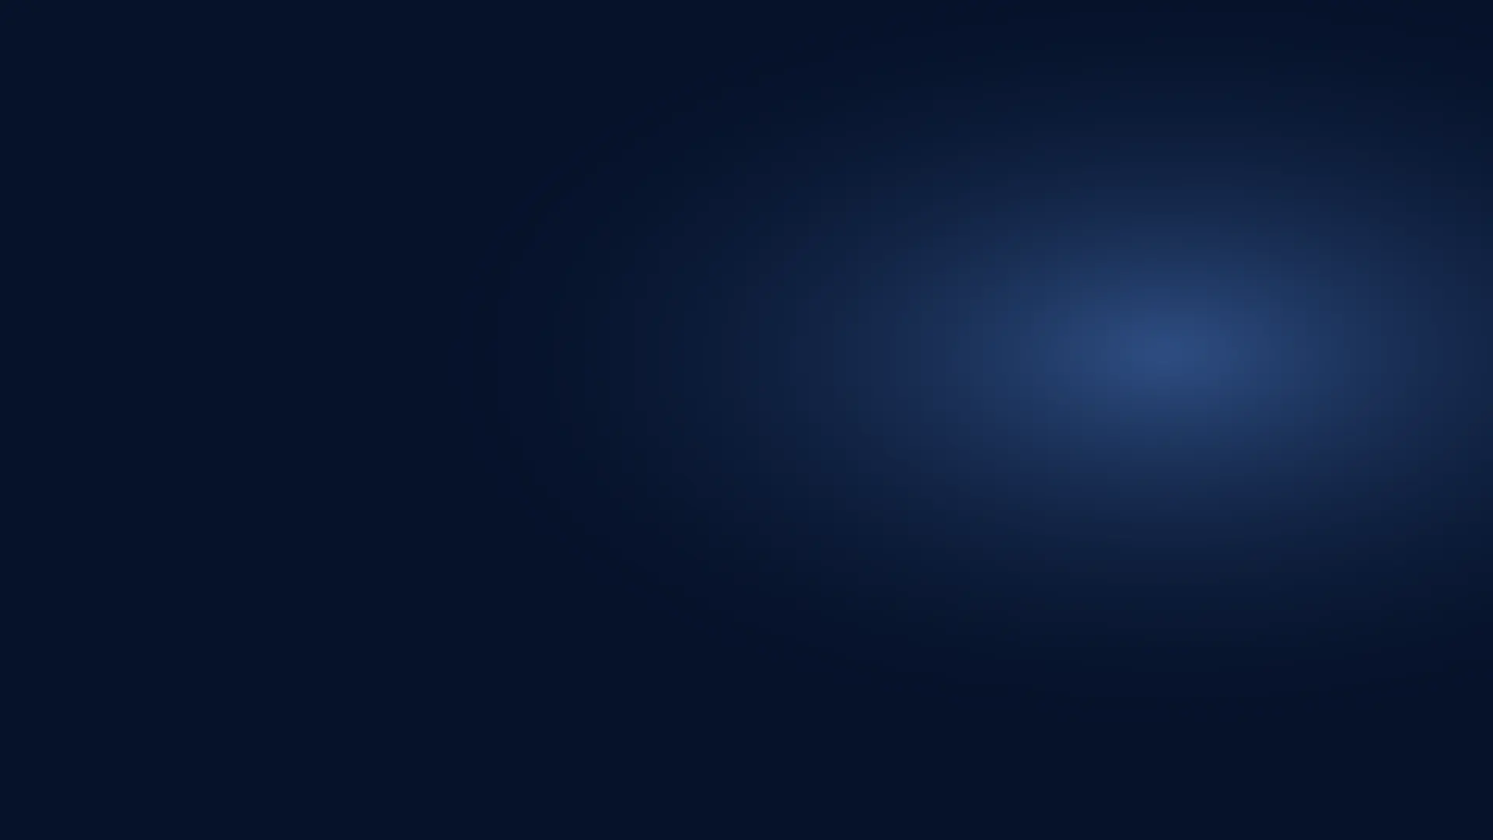
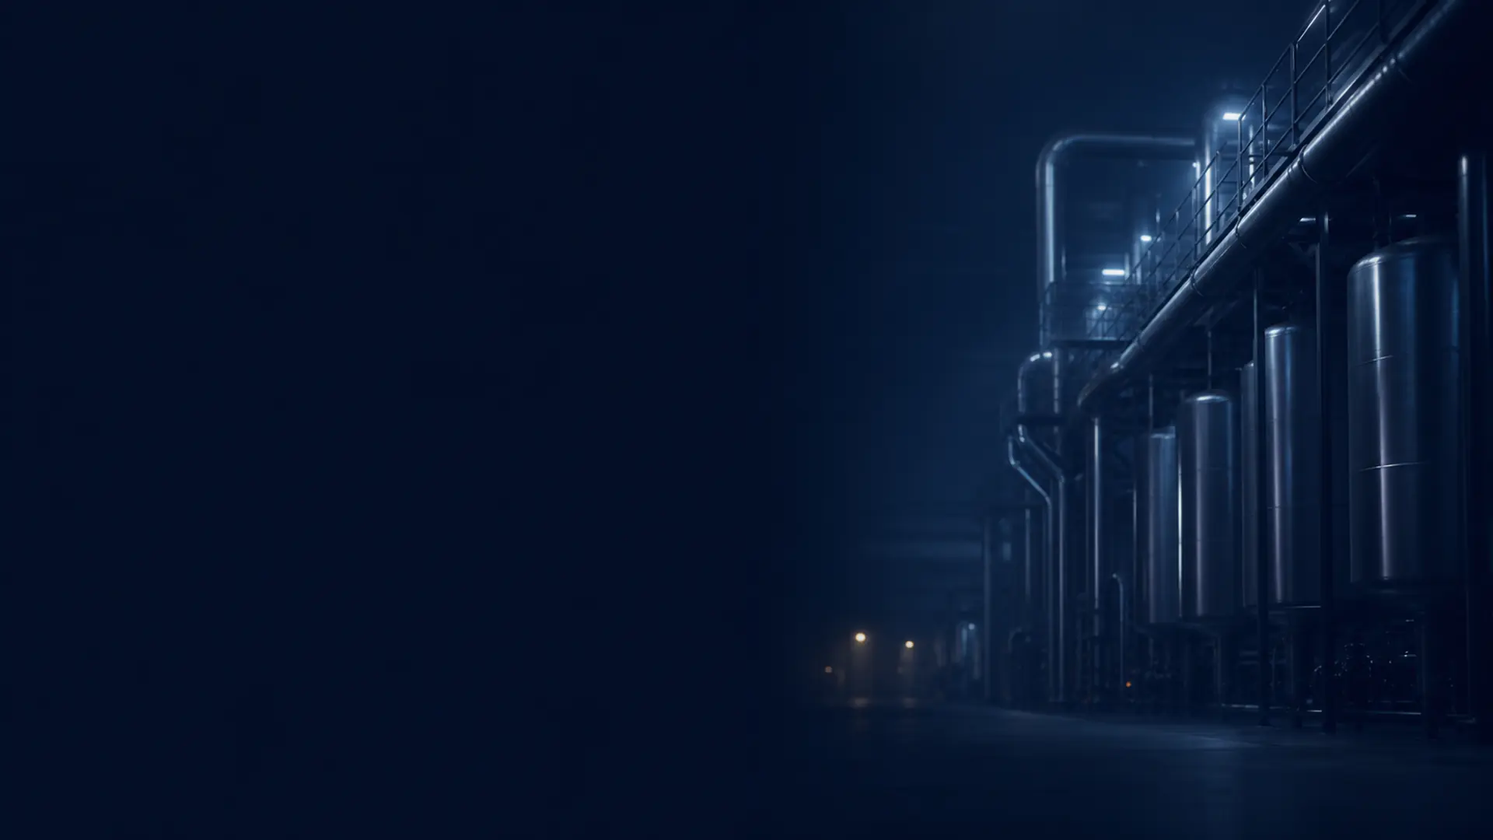
Hero: the real wide photograph, verified against the brief's own targets
Codex delivered plant-wide.png (3840x2160, 2 attempts). Measured independently
rather than trusting the report:

  text-zone (left 55%) max luminance   1.07%   limit 18%   PASS
  text-zone mean luminance             0.49%   limit 10%   PASS
  white-on-photo contrast             17.31:1  min 7:1     PASS
  pixels above 15% luma in text zone   0.0000%
  mid-tones inside the blue band       99.7%   (no green/teal/purple/warm cast)

Ladder, all far inside their ceilings because a dark defocused hall is the
cheapest content WebP handles:
  plant-wide-1280.webp  12.2 KB  (ceiling  75)
  plant-wide-1920.webp  21.0 KB  (ceiling 150)
  plant-wide-2560.webp  31.5 KB  (ceiling 240)

Worst-case above-the-fold is now 31.5 + 55.6 = 87 KB against 123 KB on the live
site, so the photographic hero is LIGHTER than the flat one it replaces.

The 2.4 MB PNG master is archived to ~/hero-masters/ and deleted from the site
tree so it cannot ship.

STILL ON THE PLACEHOLDER: plant-tall-*.webp. Codex has not generated the tall
master yet. I tested whether a crop of the wide could stand in and it cannot —
scanning every 2:3 window across the frame, each one that passes the contrast
target contains 0.0-0.3% lit content (an empty dark rectangle), and every window
with real machinery collapses to 1.02:1 because the gantry lights sit exactly
where a phone headline goes. That is the two-master decision earning its keep,
so phones keep the gradient plate until the real tall master lands.
[…]

diff --git a/contact.html b/contact.html
@@ -21,9 +21,9 @@
   <script type="application/ld+json">{"@context":"https://schema.org","@graph":[{"@type":"Organization","@id":"https://artmechatronics.com/#organization","name":"ART Mechatronics","url":"https://artmechatronics.com/","logo":"https://artmechatronics.com/assets/logo.svg","image":"https://artmechatronics.com/assets/video/hero-poster.jpg","description":"Manufacturer of industrial processing, packaging, material-handling and dust-collection machinery, from single machines to complete PLC-controlled turnkey lines.","email":"info@artmechatronics.com","address":{"@type":"PostalAddress","streetAddress":"Level G, C-2/1, Site 1, Panki Industrial Area","addressLocality":"Kanpur","addressRegion":"Uttar Pradesh","addressCountry":"IN"},"location":[{"@type":"Place","name":"ART Mechatronics — Kanpur, India","address":{"@type":"PostalAddress","streetAddress":"Level G, C-2/1, Site 1, Panki Industrial Area","addressLocality":"Kanpur","addressRegion":"Uttar Pradesh","addressCountry":"IN"}},{"@type":"Place","name":"ART Mechatronics — Ras Al Khaimah, UAE","address":{"@type":"PostalAddress","streetAddress":"Level 3, G-D wing, Al Hamra Golf Building","addressLocality":"Ras Al Khaimah","addressCountry":"AE"}},{"@type":"Place","name":"ART Mechatronics — Pattaya City, Thailand","address":{"@type":"PostalAddress","streetAddress":"Level G, Laguna Beach Resort","addressLocality":"Pattaya City","addressCountry":"TH"}}],"areaServed":[{"@type":"Country","name":"India"},{"@type":"Country","name":"United Arab Emirates"},{"@type":"Country","name":"Thailand"}],"sameAs":["https://www.instagram.com/art_mechatronics_/","https://www.facebook.com/p/Art-Mechatronics-61590532739976/"],"founder":{"@type":"Person","@id":"https://artmechatronics.com/#anurag-tiwari","name":"Anurag Tiwari","jobTitle":"Managing Director","sameAs":"https://www.linkedin.com/in/anurag-tiwari-4a731a192"},"parentOrganization":{"@type":"Organization","name":"Thermocare Industries Limited","url":"https://thermocaregroup.com/","foundingDate":"1997"},"contactPoint":[{"@type":"ContactPoint","contactType":"sales","telephone":"+91-80903-15151","areaServed":"IN","availableLanguage":["en","hi"]},{"@type":"ContactPoint","contactType":"sales","telephone":"+971-50-216-7151","areaServed":"AE","availableLanguage":["en"]},{"@type":"ContactPoint","contactType":"sales","telephone":"+66-838291089","areaServed":"TH","availableLanguage":["en","th"]}]},{"@type":"Service","@id":"https://artmechatronics.com/services#field-service","name":"On-site service and after-sales support","serviceType":"Industrial machinery installation, commissioning and maintenance","provider":{"@id":"https://artmechatronics.com/#organization"},"url":"https://artmechatronics.com/services","areaServed":[{"@type":"City","name":"New Delhi","containedInPlace":{"@type":"Country","name":"India"}},{"@type":"City","name":"Ghaziabad","containedInPlace":{"@type":"State","name":"Uttar Pradesh"}},{"@type":"City","name":"Faridabad","containedInPlace":{"@type":"State","name":"Haryana"}},{"@type":"City","name":"Kanpur","containedInPlace":{"@type":"State","name":"Uttar Pradesh"}},{"@type":"City","name":"Lucknow","containedInPlace":{"@type":"State","name":"Uttar Pradesh"}},{"@type":"City","name":"Bhopal","containedInPlace":{"@type":"State","name":"Madhya Pradesh"}},{"@type":"City","name":"Bilaspur","containedInPlace":{"@type":"State","name":"Chhattisgarh"}},{"@type":"City","name":"Sambalpur","containedInPlace":{"@type":"State","name":"Odisha"}},{"@type":"City","name":"Guwahati","containedInPlace":{"@type":"State","name":"Assam"}},{"@type":"City","name":"Kolhapur","containedInPlace":{"@type":"State","name":"Maharashtra"}},{"@type":"City","name":"Hubli","containedInPlace":{"@type":"State","name":"Karnataka"}},{"@type":"City","name":"Hyderabad","containedInPlace":{"@type":"State","name":"Telangana"}},{"@type":"City","name":"Ras Al Khaimah","containedInPlace":{"@type":"Country","name":"United Arab Emirates"}},{"@type":"City","name":"Chonburi","containedInPlace":{"@type":"Country","name":"Thailand"}}]},{"@type":"ContactPage","@id":"https://artmechatronics.com/contact#page","url":"https://artmechatronics.com/contact","name":"Contact ART Mechatronics | Discuss Your Requirement","description":"Talk to ART Mechatronics about an industrial machine, complete processing line or automation upgrade. WhatsApp, call or email from India, UAE or Thailand.","isPartOf":{"@id":"https://artmechatronics.com/#website"},"about":{"@id":"https://artmechatronics.com/#organization"},"primaryImageOfPage":"https://artmechatronics.com/assets/video/hero-poster.jpg"},{"@type":"WebSite","@id":"https://artmechatronics.com/#website","url":"https://artmechatronics.com/","name":"ART Mechatronics"}]}</script>
   <!-- core-seo:end -->
   <link rel="icon" href="assets/logo.svg" type="image/svg+xml">
-  <link rel="stylesheet" href="css/tokens.css?v=20260731k">
-  <link rel="stylesheet" href="css/base.css?v=20260731k">
-  <link rel="stylesheet" href="css/contact.css?v=20260731k">
+  <link rel="stylesheet" href="css/tokens.css?v=20260731m">
+  <link rel="stylesheet" href="css/base.css?v=20260731m">
+  <link rel="stylesheet" href="css/contact.css?v=20260731m">
 </head>
 <body data-page="contact">
   <div data-header></div>
@@ -337,8 +337,8 @@
 
   <div data-footer></div>
 
-  <script src="js/data.js?v=20260731k"></script>
-  <script src="js/layout.js?v=20260731k"></script>
-  <script src="js/contact.js?v=20260731k"></script>
+  <script src="js/data.js?v=20260731m"></script>
+  <script src="js/layout.js?v=20260731m"></script>
+  <script src="js/contact.js?v=20260731m"></script>
 </body>
 </html>

diff --git a/system.html b/system.html
@@ -21,10 +21,10 @@
   <script type="application/ld+json">{"@context":"https://schema.org","@graph":[{"@type":"Organization","@id":"https://artmechatronics.com/#organization","name":"ART Mechatronics","url":"https://artmechatronics.com/","logo":"https://artmechatronics.com/assets/logo.svg","image":"https://artmechatronics.com/assets/video/hero-poster.jpg","description":"Manufacturer of industrial processing, packaging, material-handling and dust-collection machinery, from single machines to complete PLC-controlled turnkey lines.","email":"info@artmechatronics.com","areaServed":[{"@type":"Country","name":"India"},{"@type":"Country","name":"United Arab Emirates"},{"@type":"Country","name":"Thailand"}],"founder":{"@type":"Person","name":"Anurag Tiwari"},"parentOrganization":{"@type":"Organization","name":"Thermocare Industries Limited","url":"https://thermocaregroup.com/","foundingDate":"1997"},"contactPoint":[{"@type":"ContactPoint","contactType":"sales","telephone":"+91-80903-15151","areaServed":"IN","availableLanguage":["en","hi"]},{"@type":"ContactPoint","contactType":"sales","telephone":"+971-50-216-7151","areaServed":"AE","availableLanguage":["en"]},{"@type":"ContactPoint","contactType":"sales","telephone":"+66-838291089","areaServed":"TH","availableLanguage":["en","th"]}]},{"@type":"WebPage","@id":"https://artmechatronics.com/system#page","url":"https://artmechatronics.com/system","name":"Live Powder Processing System Demo | ART Mechatronics","description":"Watch the ART Mechatronics automatic powder batching, weighing, mixing, sieving and collection line run stage by stage in your browser.","isPartOf":{"@id":"https://artmechatronics.com/#website"},"about":{"@id":"https://artmechatronics.com/#organization"},"primaryImageOfPage":"https://artmechatronics.com/assets/video/hero-poster.jpg"},{"@type":"WebSite","@id":"https://artmechatronics.com/#website","url":"https://artmechatronics.com/","name":"ART Mechatronics"}]}</script>
   <!-- core-seo:end -->
   <link rel="icon" href="assets/logo.svg" type="image/svg+xml">
-  <link rel="stylesheet" href="css/tokens.css?v=20260731k">
-  <link rel="stylesheet" href="css/base.css?v=20260731k">
-  <link rel="stylesheet" href="css/system.css?v=20260731k">
-  <link rel="stylesheet" href="css/scene.css?v=20260731k">
+  <link rel="stylesheet" href="css/tokens.css?v=20260731m">
+  <link rel="stylesheet" href="css/base.css?v=20260731m">
+  <link rel="stylesheet" href="css/system.css?v=20260731m">
+  <link rel="stylesheet" href="css/scene.css?v=20260731m">
 </head>
 <body data-page="system">
   <div data-header></div>
@@ -1763,8 +1763,8 @@
 
   <div data-footer></div>
 
-  <script src="js/data.js?v=20260731k"></script>
-  <script src="js/layout.js?v=20260731k"></script>
-  <script src="js/system.js?v=20260731k"></script>
+  <script src="js/data.js?v=20260731m"></script>
+  <script src="js/layout.js?v=20260731m"></script>
+  <script src="js/system.js?v=20260731m"></script>
 </body>
 </html>

diff --git a/index.html b/index.html
@@ -21,9 +21,9 @@
   <script type="application/ld+json">{"@context":"https://schema.org","@graph":[{"@type":"Organization","@id":"https://artmechatronics.com/#organization","name":"ART Mechatronics","url":"https://artmechatronics.com/","logo":"https://artmechatronics.com/assets/logo.svg","image":"https://artmechatronics.com/assets/video/hero-poster.jpg","description":"Manufacturer of industrial processing, packaging, material-handling and dust-collection machinery, from single machines to complete PLC-controlled turnkey lines.","email":"info@artmechatronics.com","areaServed":[{"@type":"Country","name":"India"},{"@type":"Country","name":"United Arab Emirates"},{"@type":"Country","name":"Thailand"}],"founder":{"@type":"Person","name":"Anurag Tiwari"},"parentOrganization":{"@type":"Organization","name":"Thermocare Industries Limited","url":"https://thermocaregroup.com/","foundingDate":"1997"},"contactPoint":[{"@type":"ContactPoint","contactType":"sales","telephone":"+91-80903-15151","areaServed":"IN","availableLanguage":["en","hi"]},{"@type":"ContactPoint","contactType":"sales","telephone":"+971-50-216-7151","areaServed":"AE","availableLanguage":["en"]},{"@type":"ContactPoint","contactType":"sales","telephone":"+66-838291089","areaServed":"TH","availableLanguage":["en","th"]}]},{"@type":"WebPage","@id":"https://artmechatronics.com/#page","url":"https://artmechatronics.com/","name":"Industrial Processing \u0026 Automation Systems | ART Mechatronics","description":"ART Mechatronics designs and integrates industrial processing, packaging, material handling and automation systems, backed by Thermocare manufacturing experience since 1997.","isPartOf":{"@id":"https://artmechatronics.com/#website"},"about":{"@id":"https://artmechatronics.com/#organization"},"primaryImageOfPage":"https://artmechatronics.com/assets/video/hero-poster.jpg"},{"@type":"WebSite","@id":"https://artmechatronics.com/#website","url":"https://artmechatronics.com/","name":"ART Mechatronics","publisher":{"@id":"https://artmechatronics.com/#organization"},"inLanguage":"en"}]}</script>
   <!-- core-seo:end -->
   <link rel="icon" href="assets/logo.svg" type="image/svg+xml">
-  <link rel="stylesheet" href="css/tokens.css?v=20260731k">
-  <link rel="stylesheet" href="css/base.css?v=20260731k">
-  <link rel="stylesheet" href="css/home.css?v=20260731k">
+  <link rel="stylesheet" href="css/tokens.css?v=20260731m">
+  <link rel="stylesheet" href="css/base.css?v=20260731m">
+  <link rel="stylesheet" href="css/home.css?v=20260731m">
 </head>
 <body data-page="home">
   <div data-header></div>
@@ -1506,8 +1506,8 @@
 
   <div data-footer></div>
 
-  <script src="js/data.js?v=20260731k"></script>
-  <script src="js/layout.js?v=20260731k"></script>
-  <script src="js/home.js?v=20260731k"></script>
+  <script src="js/data.js?v=20260731m"></script>
+  <script src="js/layout.js?v=20260731m"></script>
+  <script src="js/home.js?v=20260731m"></script>
 </body>
 </html>

diff --git a/machines.html b/machines.html
@@ -21,9 +21,9 @@
   <script type="application/ld+json">{"@context":"https://schema.org","@graph":[{"@type":"Organization","@id":"https://artmechatronics.com/#organization","name":"ART Mechatronics","url":"https://artmechatronics.com/","logo":"https://artmechatronics.com/assets/logo.svg","image":"https://artmechatronics.com/assets/video/hero-poster.jpg","description":"Manufacturer of industrial processing, packaging, material-handling and dust-collection machinery, from single machines to complete PLC-controlled turnkey lines.","email":"info@artmechatronics.com","areaServed":[{"@type":"Country","name":"India"},{"@type":"Country","name":"United Arab Emirates"},{"@type":"Country","name":"Thailand"}],"founder":{"@type":"Person","name":"Anurag Tiwari"},"parentOrganization":{"@type":"Organization","name":"Thermocare Industries Limited","url":"https://thermocaregroup.com/","foundingDate":"1997"},"contactPoint":[{"@type":"ContactPoint","contactType":"sales","telephone":"+91-80903-15151","areaServed":"IN","availableLanguage":["en","hi"]},{"@type":"ContactPoint","contactType":"sales","telephone":"+971-50-216-7151","areaServed":"AE","availableLanguage":["en"]},{"@type":"ContactPoint","contactType":"sales","telephone":"+66-838291089","areaServed":"TH","availableLanguage":["en","th"]}]},{"@type":"CollectionPage","@id":"https://artmechatronics.com/machines#page","url":"https://artmechatronics.com/machines","name":"Flagship Powder Line Components | ART Mechatronics","description":"Explore the eight ART Mechatronics components that combine into one turnkey automatic powder processing line, from storage silos to PLC control and dust collection.","isPartOf":{"@id":"https://artmechatronics.com/#website"},"about":{"@id":"https://artmechatronics.com/#organization"},"primaryImageOfPage":"https://artmechatronics.com/assets/video/hero-poster.jpg"},{"@type":"WebSite","@id":"https://artmechatronics.com/#website","url":"https://artmechatronics.com/","name":"ART Mechatronics"}]}</script>
   <!-- core-seo:end -->
   <link rel="icon" href="assets/logo.svg" type="image/svg+xml">
-  <link rel="stylesheet" href="css/tokens.css?v=20260731k">
-  <link rel="stylesheet" href="css/base.css?v=20260731k">
-  <link rel="stylesheet" href="css/machines.css?v=20260731k">
+  <link rel="stylesheet" href="css/tokens.css?v=20260731m">
+  <link rel="stylesheet" href="css/base.css?v=20260731m">
+  <link rel="stylesheet" href="css/machines.css?v=20260731m">
 </head>
 <body data-page="machines">
   <div data-header></div>
@@ -66,8 +66,8 @@
 
   <div data-footer></div>
 
-  <script src="js/data.js?v=20260731k"></script>
-  <script src="js/layout.js?v=20260731k"></script>
-  <script src="js/machines.js?v=20260731k"></script>
+  <script src="js/data.js?v=20260731m"></script>
+  <script src="js/layout.js?v=20260731m"></script>
+  <script src="js/machines.js?v=20260731m"></script>
 </body>
 </html>

diff --git a/control-panel.html b/control-panel.html
@@ -21,9 +21,9 @@
   <script type="application/ld+json">{"@context":"https://schema.org","@graph":[{"@type":"Organization","@id":"https://artmechatronics.com/#organization","name":"ART Mechatronics","url":"https://artmechatronics.com/","logo":"https://artmechatronics.com/assets/logo.svg","image":"https://artmechatronics.com/assets/video/hero-poster.jpg","description":"Manufacturer of industrial processing, packaging, material-handling and dust-collection machinery, from single machines to complete PLC-controlled turnkey lines.","email":"info@artmechatronics.com","areaServed":[{"@type":"Country","name":"India"},{"@type":"Country","name":"United Arab Emirates"},{"@type":"Country","name":"Thailand"}],"founder":{"@type":"Person","name":"Anurag Tiwari"},"parentOrganization":{"@type":"Organization","name":"Thermocare Industries Limited","url":"https://thermocaregroup.com/","foundingDate":"1997"},"contactPoint":[{"@type":"ContactPoint","contactType":"sales","telephone":"+91-80903-15151","areaServed":"IN","availableLanguage":["en","hi"]},{"@type":"ContactPoint","contactType":"sales","telephone":"+971-50-216-7151","areaServed":"AE","availableLanguage":["en"]},{"@type":"ContactPoint","contactType":"sales","telephone":"+66-838291089","areaServed":"TH","availableLanguage":["en","th"]}]},{"@type":"WebPage","@id":"https://artmechatronics.com/control-panel#page","url":"https://artmechatronics.com/control-panel","name":"Virtual PLC Control Panel | ART Mechatronics","description":"Run a real ART PLC control panel in your browser: pick a recipe, press START, and watch the line weigh, mix, sieve and report a finished batch.","isPartOf":{"@id":"https://artmechatronics.com/#website"},"about":{"@id":"https://artmechatronics.com/#organization"},"primaryImageOfPage":"https://artmechatronics.com/assets/video/hero-poster.jpg"},{"@type":"WebSite","@id":"https://artmechatronics.com/#website","url":"https://artmechatronics.com/","name":"ART Mechatronics"}]}</script>
   <!-- core-seo:end -->
   <link rel="icon" href="assets/logo.svg" type="image/svg+xml">
-  <link rel="stylesheet" href="css/tokens.css?v=20260731k">
-  <link rel="stylesheet" href="css/base.css?v=20260731k">
-  <link rel="stylesheet" href="css/control-panel.css?v=20260731k">
+  <link rel="stylesheet" href="css/tokens.css?v=20260731m">
+  <link rel="stylesheet" href="css/base.css?v=20260731m">
+  <link rel="stylesheet" href="css/control-panel.css?v=20260731m">
 </head>
 <body data-page="panel">
   <div data-header></div>
@@ -139,8 +139,8 @@
 
   <div data-footer></div>
 
-  <script src="js/data.js?v=20260731k"></script>
-  <script src="js/layout.js?v=20260731k"></script>
-  <script src="js/control-panel.js?v=20260731k"></script>
+  <script src="js/data.js?v=20260731m"></script>
+  <script src="js/layout.js?v=20260731m"></script>
+  <script src="js/control-panel.js?v=20260731m"></script>
 </body>
 </html>

diff --git a/services.html b/services.html
@@ -21,9 +21,9 @@
   <script type="application/ld+json">{"@context":"https://schema.org","@graph":[{"@type":"Organization","@id":"https://artmechatronics.com/#organization","name":"ART Mechatronics","url":"https://artmechatronics.com/","logo":"https://artmechatronics.com/assets/logo.svg","image":"https://artmechatronics.com/assets/video/hero-poster.jpg","description":"Manufacturer of industrial processing, packaging, material-handling and dust-collection machinery, from single machines to complete PLC-controlled turnkey lines.","email":"info@artmechatronics.com","areaServed":[{"@type":"Country","name":"India"},{"@type":"Country","name":"United Arab Emirates"},{"@type":"Country","name":"Thailand"}],"founder":{"@type":"Person","name":"Anurag Tiwari"},"parentOrganization":{"@type":"Organization","name":"Thermocare Industries Limited","url":"https://thermocaregroup.com/","foundingDate":"1997"},"contactPoint":[{"@type":"ContactPoint","contactType":"sales","telephone":"+91-80903-15151","areaServed":"IN","availableLanguage":["en","hi"]},{"@type":"ContactPoint","contactType":"sales","telephone":"+971-50-216-7151","areaServed":"AE","availableLanguage":["en"]},{"@type":"ContactPoint","contactType":"sales","telephone":"+66-838291089","areaServed":"TH","availableLanguage":["en","th"]}]},{"@type":"WebPage","@id":"https://artmechatronics.com/services#page","url":"https://artmechatronics.com/services","name":"Services \u0026 After-Sales Support | ART Mechatronics","description":"Installation, commissioning, spare parts, servicing, annual maintenance contracts and operator training for ART machinery — with service teams across India, the UAE and Thailand.","isPartOf":{"@id":"https://artmechatronics.com/#website"},"about":{"@id":"https://artmechatronics.com/#organization"},"primaryImageOfPage":"https://artmechatronics.com/assets/video/hero-poster.jpg"},{"@type":"WebSite","@id":"https://artmechatronics.com/#website","url":"https://artmechatronics.com/","name":"ART Mechatronics"}]}</script>
   <!-- core-seo:end -->
   <link rel="icon" href="assets/logo.svg" type="image/svg+xml">
-  <link rel="stylesheet" href="css/tokens.css?v=20260731k">
-  <link rel="stylesheet" href="css/base.css?v=20260731k">
-  <link rel="stylesheet" href="css/services.css?v=20260731k">
+  <link rel="stylesheet" href="css/tokens.css?v=20260731m">
+  <link rel="stylesheet" href="css/base.css?v=20260731m">
+  <link rel="stylesheet" href="css/services.css?v=20260731m">
 </head>
 <body data-page="services">
   <div data-header></div>
@@ -132,7 +132,7 @@
 
   <div data-footer></div>
 
-  <script src="js/data.js?v=20260731k"></script>
-  <script src="js/layout.js?v=20260731k"></script>
+  <script src="js/data.js?v=20260731m"></script>
+  <script src="js/layout.js?v=20260731m"></script>
 </body>
 </html>

diff --git a/about.html b/about.html
@@ -21,9 +21,9 @@
   <script type="application/ld+json">{"@context":"https://schema.org","@graph":[{"@type":"Organization","@id":"https://artmechatronics.com/#organization","name":"ART Mechatronics","url":"https://artmechatronics.com/","logo":"https://artmechatronics.com/assets/logo.svg","image":"https://artmechatronics.com/assets/video/hero-poster.jpg","description":"Manufacturer of industrial processing, packaging, material-handling and dust-collection machinery, from single machines to complete PLC-controlled turnkey lines.","email":"info@artmechatronics.com","areaServed":[{"@type":"Country","name":"India"},{"@type":"Country","name":"United Arab Emirates"},{"@type":"Country","name":"Thailand"}],"founder":{"@type":"Person","name":"Anurag Tiwari"},"parentOrganization":{"@type":"Organization","name":"Thermocare Industries Limited","url":"https://thermocaregroup.com/","foundingDate":"1997"},"contactPoint":[{"@type":"ContactPoint","contactType":"sales","telephone":"+91-80903-15151","areaServed":"IN","availableLanguage":["en","hi"]},{"@type":"ContactPoint","contactType":"sales","telephone":"+971-50-216-7151","areaServed":"AE","availableLanguage":["en"]},{"@type":"ContactPoint","contactType":"sales","telephone":"+66-838291089","areaServed":"TH","availableLanguage":["en","th"]}]},{"@type":"AboutPage","@id":"https://artmechatronics.com/about#page","url":"https://artmechatronics.com/about","name":"About ART Mechatronics | Industrial Automation","description":"ART Mechatronics combines next-generation industrial automation with Thermocare manufacturing experience since 1997. Discover our approach to turnkey machinery and controls.","isPartOf":{"@id":"https://artmechatronics.com/#website"},"about":{"@id":"https://artmechatronics.com/#organization"},"primaryImageOfPage":"https://artmechatronics.com/assets/video/hero-poster.jpg"},{"@type":"WebSite","@id":"https://artmechatronics.com/#website","url":"https://artmechatronics.com/","name":"ART Mechatronics"}]}</script>
   <!-- core-seo:end -->
   <link rel="icon" href="assets/logo.svg" type="image/svg+xml">
-  <link rel="stylesheet" href="css/tokens.css?v=20260731k">
-  <link rel="stylesheet" href="css/base.css?v=20260731k">
-  <link rel="stylesheet" href="css/about.css?v=20260731k">
+  <link rel="stylesheet" href="css/tokens.css?v=20260731m">
+  <link rel="stylesheet" href="css/base.css?v=20260731m">
+  <link rel="stylesheet" href="css/about.css?v=20260731m">
 </head>
 <body data-page="about">
   <div data-header></div>
@@ -229,7 +229,7 @@
 
   <div data-footer></div>
 
-  <script src="js/data.js?v=20260731k"></script>
-  <script src="js/layout.js?v=20260731k"></script>
+  <script src="js/data.js?v=20260731m"></script>
+  <script src="js/layout.js?v=20260731m"></script>
 </body>
 </html>

diff --git a/machine.html b/machine.html
@@ -7,17 +7,17 @@
   <meta name="description" id="metaDesc" content="ART Mechatronics machine — specifications and details.">
   <meta name="robots" content="noindex">
   <link rel="icon" href="assets/logo.svg" type="image/svg+xml">
-  <link rel="stylesheet" href="css/tokens.css?v=20260731k">
-  <link rel="stylesheet" href="css/base.css?v=20260731k">
-  <link rel="stylesheet" href="css/machine.css?v=20260731k">
+  <link rel="stylesheet" href="css/tokens.css?v=20260731m">
+  <link rel="stylesheet" href="css/base.css?v=20260731m">
+  <link rel="stylesheet" href="css/machine.css?v=20260731m">
 </head>
 <body data-page="machines">
   <div data-header></div>
   <main id="main"><div id="mdRoot"><!-- rendered by machine.js --></div></main>
   <div data-footer></div>
 
-  <script src="js/data.js?v=20260731k"></script>
-  <script src="js/layout.js?v=20260731k"></script>
-  <script src="js/machine.js?v=20260731k"></script>
+  <script src="js/data.js?v=20260731m"></script>
+  <script src="js/layout.js?v=20260731m"></script>
+  <script src="js/machine.js?v=20260731m"></script>
 </body>
 </html>

diff --git a/404.html b/404.html
@@ -8,8 +8,8 @@
   <meta name="robots" content="noindex">
   <link rel="canonical" href="https://artmechatronics.com/404">
   <link rel="icon" href="/assets/logo.svg" type="image/svg+xml">
-  <link rel="stylesheet" href="/css/tokens.css?v=20260731k">
-  <link rel="stylesheet" href="/css/base.css?v=20260731k">
+  <link rel="stylesheet" href="/css/tokens.css?v=20260731m">
+  <link rel="stylesheet" href="/css/base.css?v=20260731m">
 </head>
 <body data-page="404" data-base="/">
   <div data-header></div>
@@ -30,7 +30,7 @@
 
   <div data-footer></div>
 
-  <script src="/js/data.js?v=20260731k"></script>
-  <script src="/js/layout.js?v=20260731k"></script>
+  <script src="/js/data.js?v=20260731m"></script>
+  <script src="/js/layout.js?v=20260731m"></script>
 </body>
 </html>
